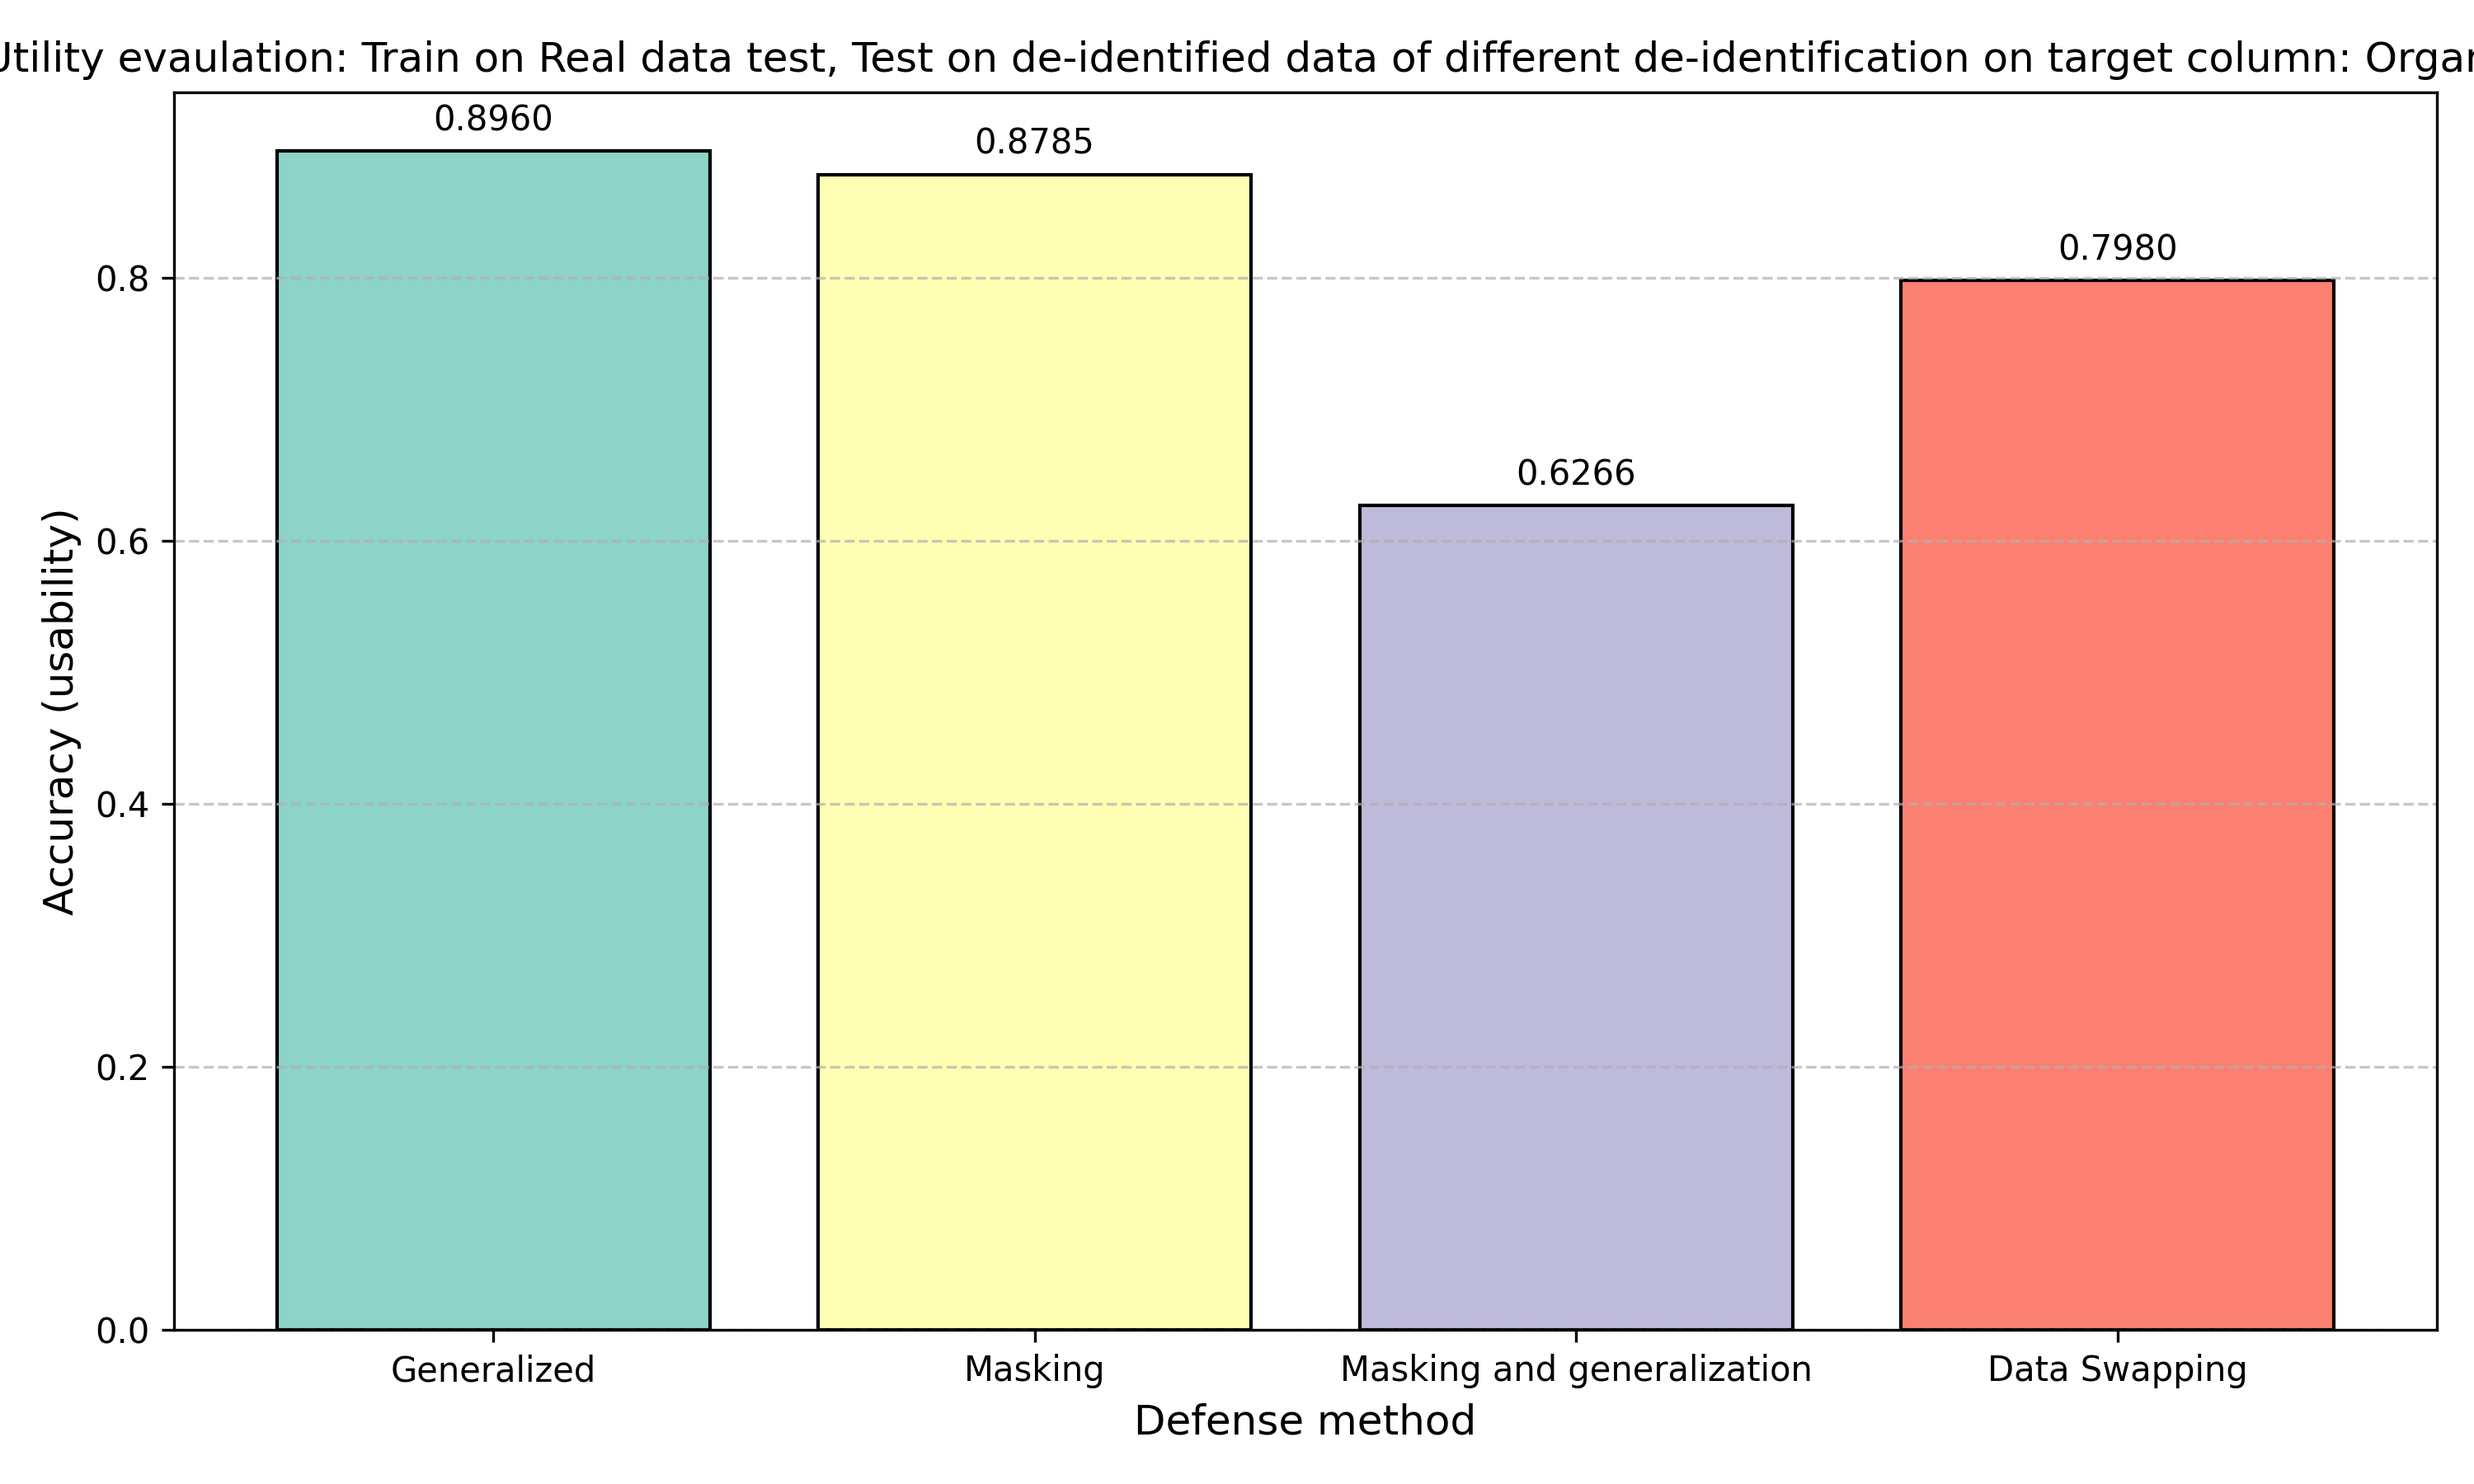
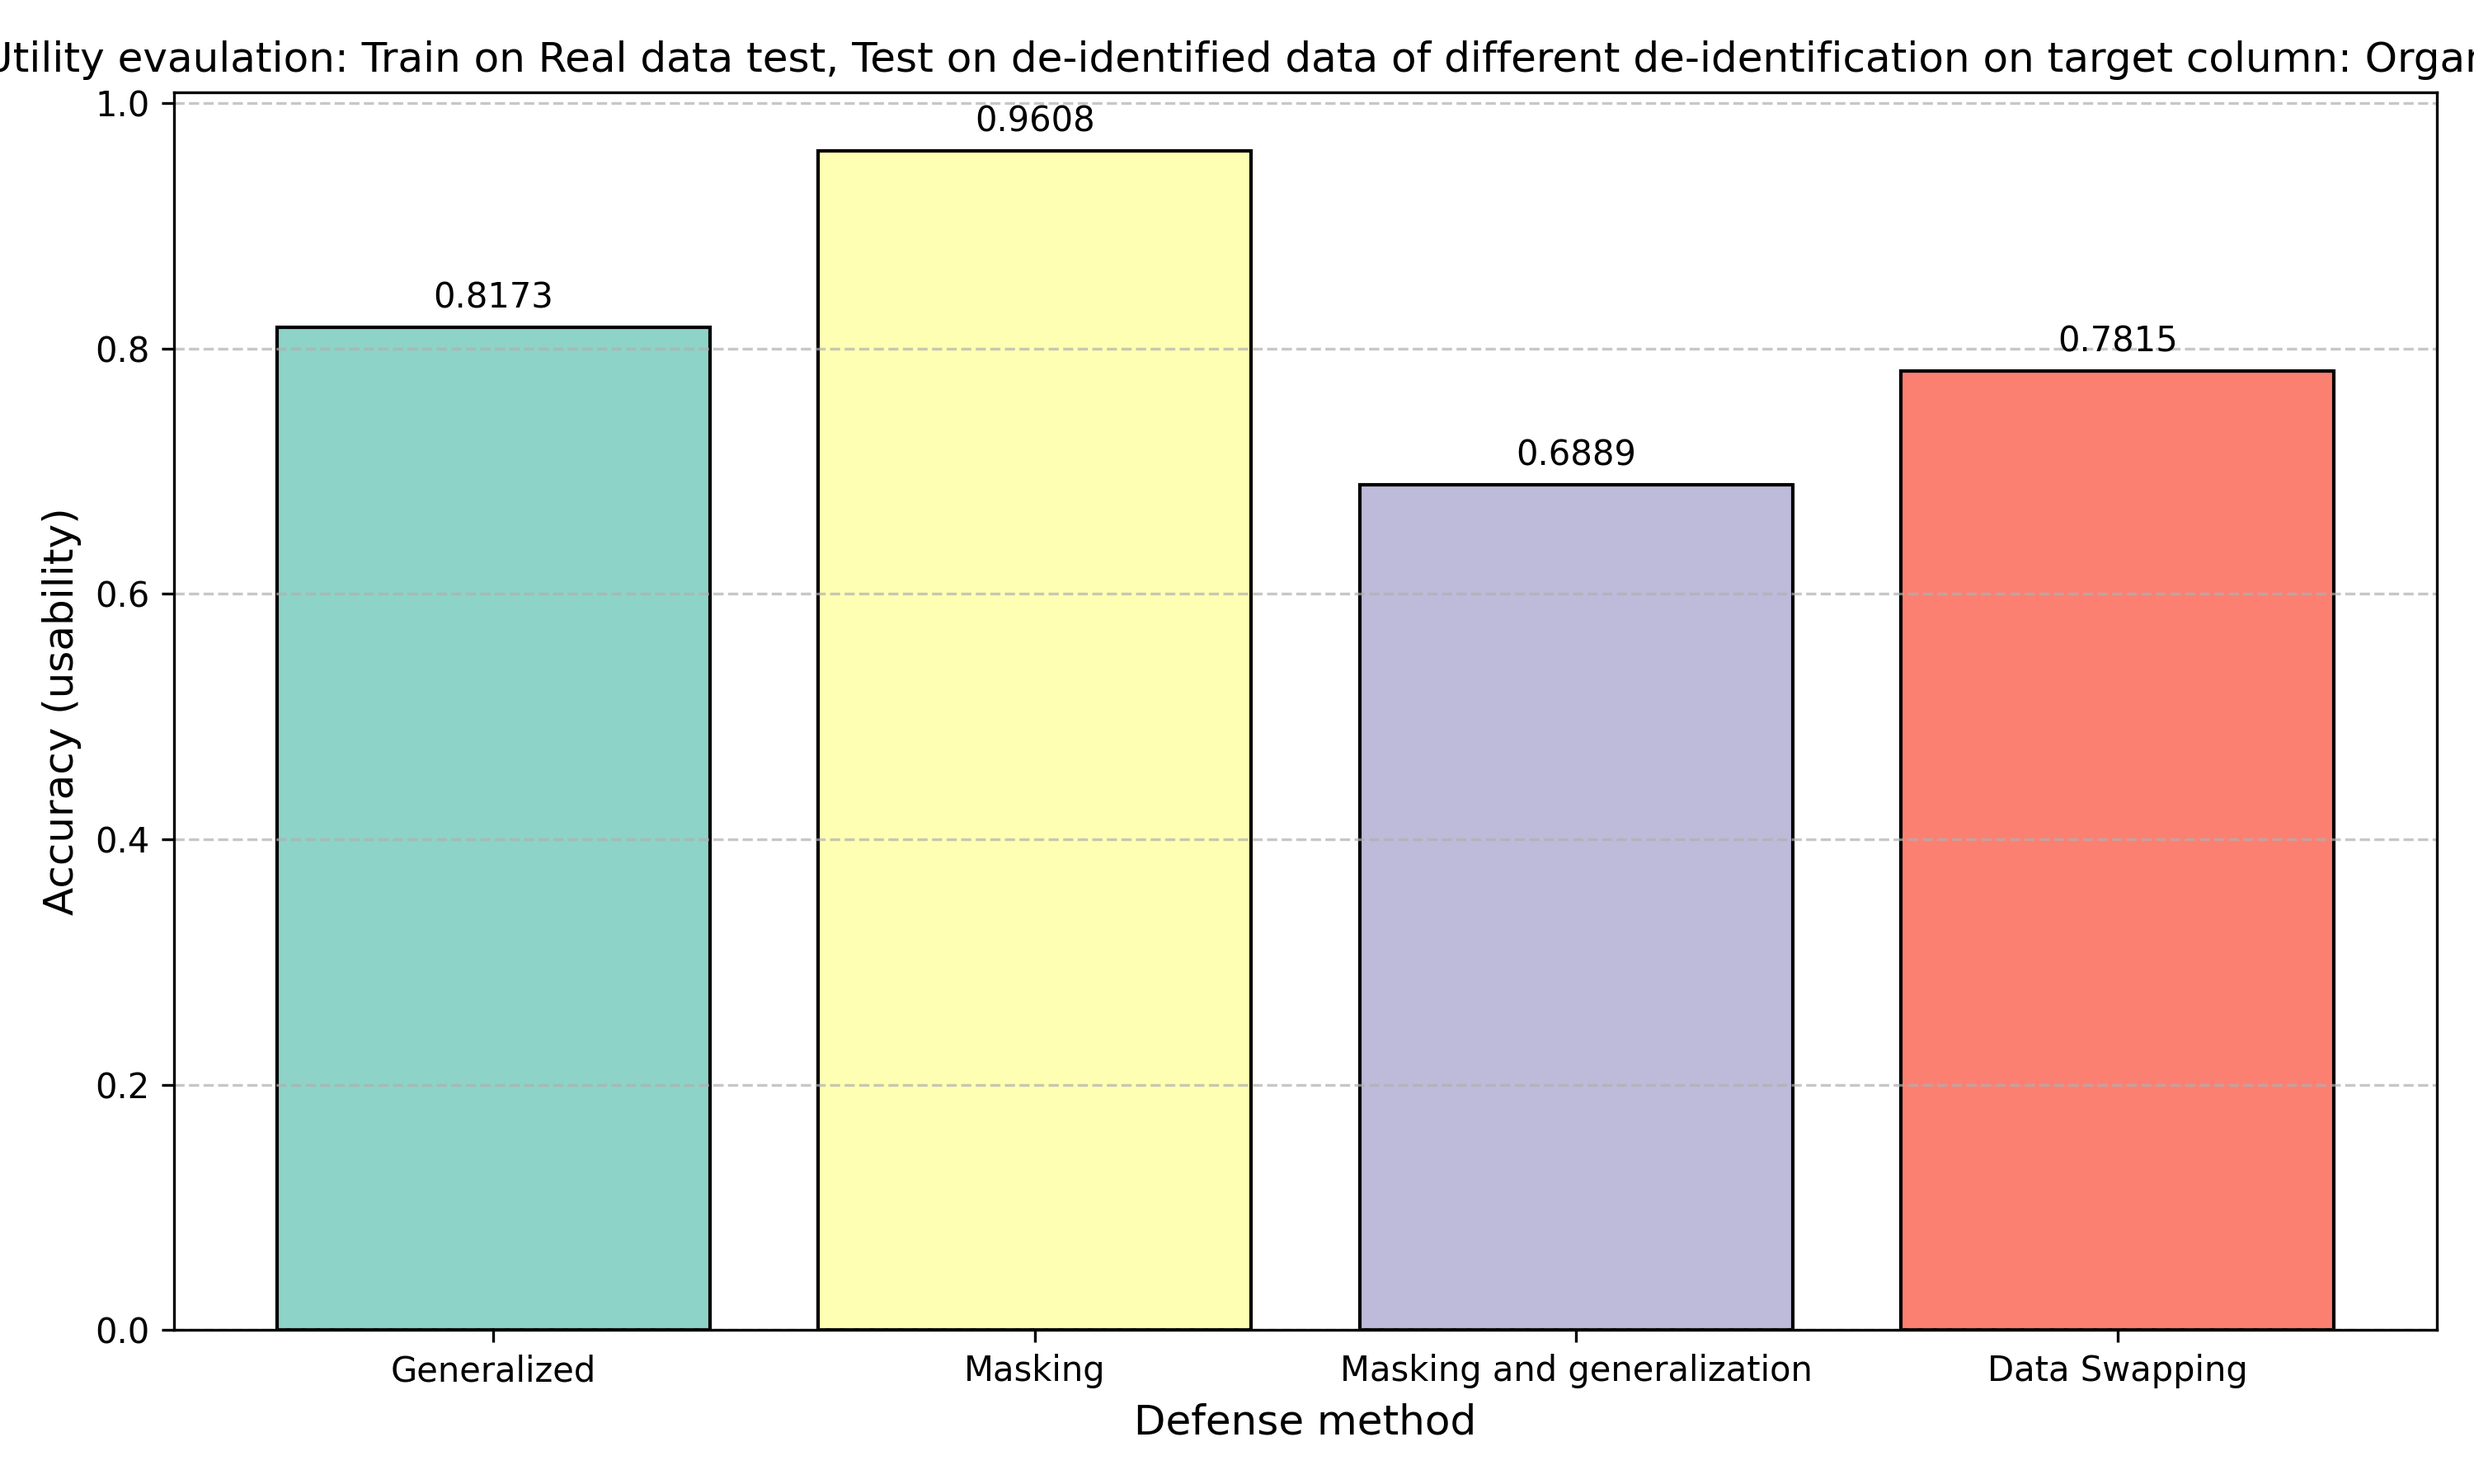
pushing

diff --git a/benchmarks/utility/TRTS.py b/benchmarks/utility/TRTS.py
@@ -1,5 +1,5 @@
 from sklearn.ensemble import RandomForestClassifier
-from sklearn.metrics import accuracy_score
+from sklearn.metrics import accuracy_score, f1_score
 from sklearn.preprocessing import LabelEncoder
 import pandas as pd
 import matplotlib.pyplot as plt
@@ -11,7 +11,7 @@ TRTS: Train on Real, Test on (de-identified) Synthetic
 def preprocess_data(df):
 
     df_clean = df.copy()
-    
+    df_clean = df.drop(columns=['IP Address'], errors='ignore') 
     df_clean = df_clean.fillna("Unknown")
     
     le = LabelEncoder()
@@ -21,13 +21,18 @@ def preprocess_data(df):
             
     return df_clean
 
-def plot_utility_results(results_dict, target_col):
-    names = list(results_dict.keys())
-    accuracies = list(results_dict.values())
+def plot_utility_results(accuracies_scores, f1_scores, target_col):
+    names = list(accuracies_scores.keys())
+    accuracies = list(accuracies_scores.values())
     
+    f1s = list(f1_scores.values())
+
+
     plt.figure(figsize=(10, 6))
-    bars = plt.bar(names, accuracies, color=plt.cm.Set3.colors, edgecolor='black')
-    text = [plt.text(i, acc + 0.01, f"{acc:.4f}", ha='center', va='bottom', fontsize=10) for i, acc in enumerate(accuracies)]
+    accuracies_bars = plt.bar(names, accuracies, color=plt.cm.Set3.colors, edgecolor='black')
+    f1_bars = plt.bar(names, f1s, color=plt.cm.Set2.colors, edgecolor='black')
+    accuracies_text = [plt.text(i, acc + 0.01, f"{acc:.4f}", ha='center', va='bottom', fontsize=10) for i, acc in enumerate(accuracies)]
+    f1_text = [plt.text(i, f1 + 0.01, f"{acc:.4f}", ha='center', va='bottom', fontsize=10) for i, f1 in enumerate(f1s)]
     
     plt.ylabel('Accuracy (usability)', fontsize=12)
     plt.xlabel('Defense method', fontsize=12)
@@ -51,7 +56,8 @@ if __name__ == "__main__":
         "Data Swapping" : pd.read_csv('../../datasets/de-identified-datasets/swapped_data.csv')
     }
 
-    final_results = {}
+    accuracies_scores = {}
+    f1_scores = {}
 
     for defense_name, df_protected in datasets_to_test.items():
         df_clean = preprocess_data(df_protected)
@@ -71,6 +77,8 @@ if __name__ == "__main__":
         y_pred = model.predict(X_test)
 
         accuracy = accuracy_score(y_test, y_pred)
+        f1 = f1_score(y_test, y_pred)
 
-        final_results[defense_name] = accuracy
-    plot_utility_results(final_results, target_col)
+        accuracies_scores[defense_name] = accuracy
+        f1_scores[defense_name] = f1
+    plot_utility_results(accuracies_scores, f1_scores, target_col)

diff --git a/benchmarks/utility/ML-performance.py b/benchmarks/utility/ML-performance.py
@@ -13,7 +13,7 @@ ML performance evaluation: Train and test on the same data
 def preprocess_data(df):
 
     df_clean = df.copy()
-    
+    df_clean = df.drop(columns=['IP Address'], errors='ignore') 
     df_clean = df_clean.fillna("Unknown")
     
     le = LabelEncoder()
@@ -31,10 +31,10 @@ def evaluate_dataset_utility(df, target_col):
     
     X_train, X_test, y_train, y_test = train_test_split(X, y, test_size=0.2, random_state=42)
     
-    clf = RandomForestClassifier(random_state=42)
-    clf.fit(X_train, y_train)
+    model = RandomForestClassifier(n_estimators=100, random_state=42)
+    model.fit(X_train, y_train)
     
-    y_pred = clf.predict(X_test)
+    y_pred = model.predict(X_test)
     accuracy = accuracy_score(y_test, y_pred)
     
     return accuracy
@@ -68,7 +68,8 @@ if __name__ == "__main__":
         "Original Data": evaluate_dataset_utility(df_original, target_col),
         "Generalized": evaluate_dataset_utility(df_generalized, target_col),
         "Masking": evaluate_dataset_utility(df_masked, target_col),
-        "Masking and generalization" : evaluate_dataset_utility(df_generalized_masked, target_col)
+        "Masking and generalization" : evaluate_dataset_utility(df_generalized_masked, target_col),
+        "Data Swapping" : evaluate_dataset_utility(pd.read_csv('../../datasets/de-identified-datasets/swapped_data.csv'), target_col)
     }
     
     for method, acc in results.items():

diff --git a/benchmarks/attacks/netflix-attack.py b/benchmarks/attacks/netflix-attack.py
@@ -87,7 +87,7 @@ def plot_results(results_dict):
     plt.grid(axis='y', linestyle='--', alpha=0.7)
                  
     plt.tight_layout()
-    plt.savefig("../plots/attack_accuracy.png", dpi=300)
+    plt.savefig("../plots/Netflix_attack_accuracy.png", dpi=300)
     plt.show()
 
 

diff --git a/benchmarks/utility/TSTR.py b/benchmarks/utility/TSTR.py
@@ -11,7 +11,7 @@ TSTR: Train on (de-identified) Synthetic, Test on Real
 def preprocess_data(df):
 
     df_clean = df.copy()
-    
+    df_clean = df.drop(columns=['IP Address'], errors='ignore') 
     df_clean = df_clean.fillna("Unknown")
     
     le = LabelEncoder()
